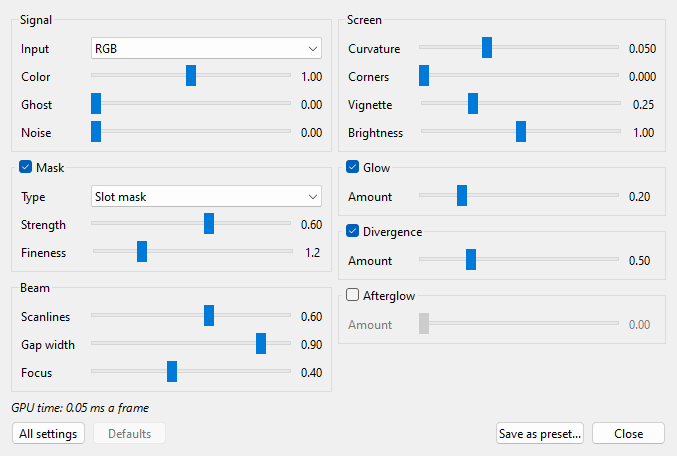
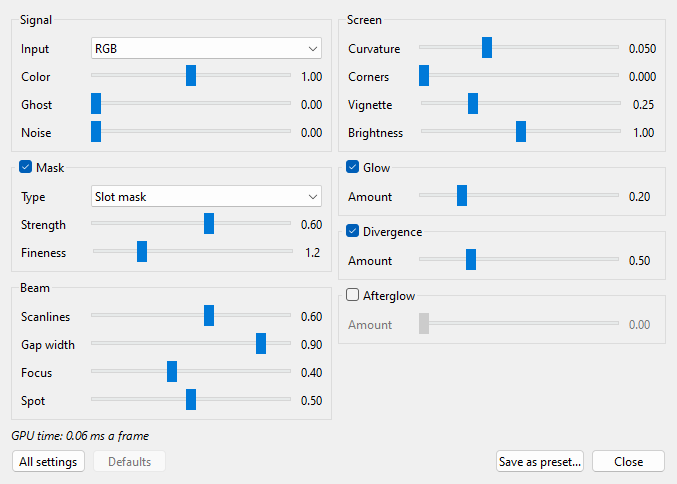
manual: Display - Spot; the sheet's picture

diff --git a/docs/manual/view.md b/docs/manual/view.md
@@ -201,8 +201,10 @@ that can be switched off, and then costs nothing:
   mask is drawn with the display's own subpixels: if its colors look wrong, set
   **Display's subpixels** under **All settings** to your display's order, **RGB** or
   **BGR**, or to **Other** for a mask without colors;
-- **Beam** - **Scanlines**, how dark the gap between two lines is; **Gap width**, how much
-  of a line it takes; **Focus**, how sharp a dot is along the line;
+- **Beam** - **Scanlines**, how dark the gap between two lit lines is; **Gap width**, how
+  much of a line its soft edges take; **Focus**, how sharp a dot's edge is along the line;
+  **Spot**, how wide the beam's spot is - with it a dot's ends come out round and a
+  bright line a little thicker than a dim one, as on a tube;
 - **Screen** - **Curvature**, **Corners**, **Vignette**, **Brightness**. A small picture,
   under about three screen pixels a dot, stays flat. A curved picture goes on to the edge
   of its place as its border does, and the corners are rounded there;
